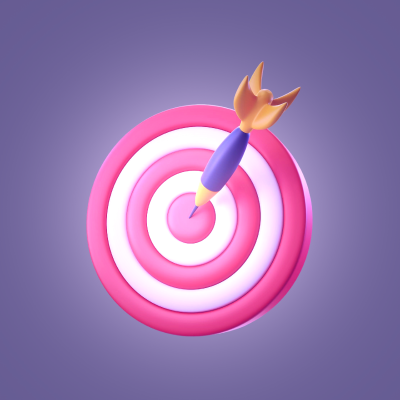
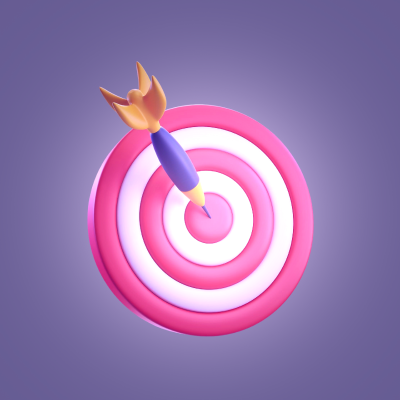
web-develop-2

Changed region(s): [[0.21, 0.15, 0.81, 0.84]]

diff --git a/portfolio/webdevelopment.html b/portfolio/webdevelopment.html
@@ -125,7 +125,7 @@
 
     <!-- Cursor Animation -->
     <div class="cursor1"></div>
-     <!-- <div class="cursor2"></div> -->
+    <!-- <div class="cursor2"></div> -->
 
     <!-- Sroll to top -->
     <div class="progress-wrap">
@@ -240,17 +240,24 @@
                                     </h2>
                                 </div>
                                 <div class="content">
-                                    <p class="text">
+                                    <!-- <p class="text">
                                         A collection of digital experiences built with purpose, combining intuitive
                                         design, efficient development, and strategic thinking to deliver fast,
-                                        responsive, and engaging websites. </p>
+                                        responsive, and engaging websites. </p> -->
+                                    <div>
+                                        <video autoplay muted loop playsinline style="width:100%; cursor: pointer;">
+                                            <source src="../assets/images/website-design-development.mp4"
+                                                type="video/mp4">
+                                        </video>
+
+                                    </div>
                                 </div>
                             </div>
 
                         </div>
                     </section>
 
-                    <section class="web_portfolio_video_section pt-80 pb-80">
+                    <!-- <section class="web_portfolio_video_section pt-80 pb-80">
                         <div class="container">
                             <h3 class="pb-20">Get a glance of the websites we developed</h3>
                             <div>
@@ -260,7 +267,7 @@
                                 </video>
                             </div>
                         </div>
-                    </section>
+                    </section> -->
 
 
                     <section class="portfolio__section_detail">

diff --git a/css/master-digital-agency.css b/css/master-digital-agency.css
@@ -12257,6 +12257,12 @@ section {
     bottom: 0px;
 }
 
+@media screen and (max-width: 900px) {
+        .service-area .section-title {
+        margin-bottom: 15px;
+    }
+}
+
 
 
 @media screen and (max-width: 500px) {
@@ -12380,6 +12386,69 @@ section {
     height: 400px;
     object-fit: cover;
     border-radius: 15px;
+}
+
+@media screen and (max-width: 1400px) {
+.portfolio__section_detail .bx__p img {
+    width: 100%;
+    height: 325px;
+    object-fit: cover;
+    border-radius: 15px;
+}
+}
+
+@media screen and (max-width: 1200px) {
+.portfolio__section_detail .bx__p img {
+    width: 100%;
+    height: 280px;
+    object-fit: cover;
+    border-radius: 15px;
+}
+}
+
+@media screen and (max-width: 995px) {
+.portfolio__section_detail .bx__p img {
+    width: 100%;
+    height: 200px;
+    object-fit: cover;
+    border-radius: 15px;
+}
+}
+
+@media screen and (max-width: 767px) {
+.portfolio__section_detail .bx__p img {
+    width: 100%;
+    height: 450px;
+    object-fit: cover;
+    border-radius: 15px;
+}
+}
+
+@media screen and (max-width: 500px) {
+.portfolio__section_detail .bx__p img {
+    width: 100%;
+    height: 380px;
+    object-fit: cover;
+    border-radius: 15px;
+}
+}
+
+@media screen and (max-width: 380px) {
+.portfolio__section_detail .bx__p img {
+    width: 100%;
+    height: 350px;
+    object-fit: cover;
+    border-radius: 15px;
+}
+}
+
+@media screen and (max-width: 350px) {
+.portfolio__section_detail .bx__p img {
+    width: 100%;
+    height: 290px;
+    object-fit: cover;
+    border-radius: 15px;
+}
 }
 
 .nuvotec__portfolio__section_detail {
